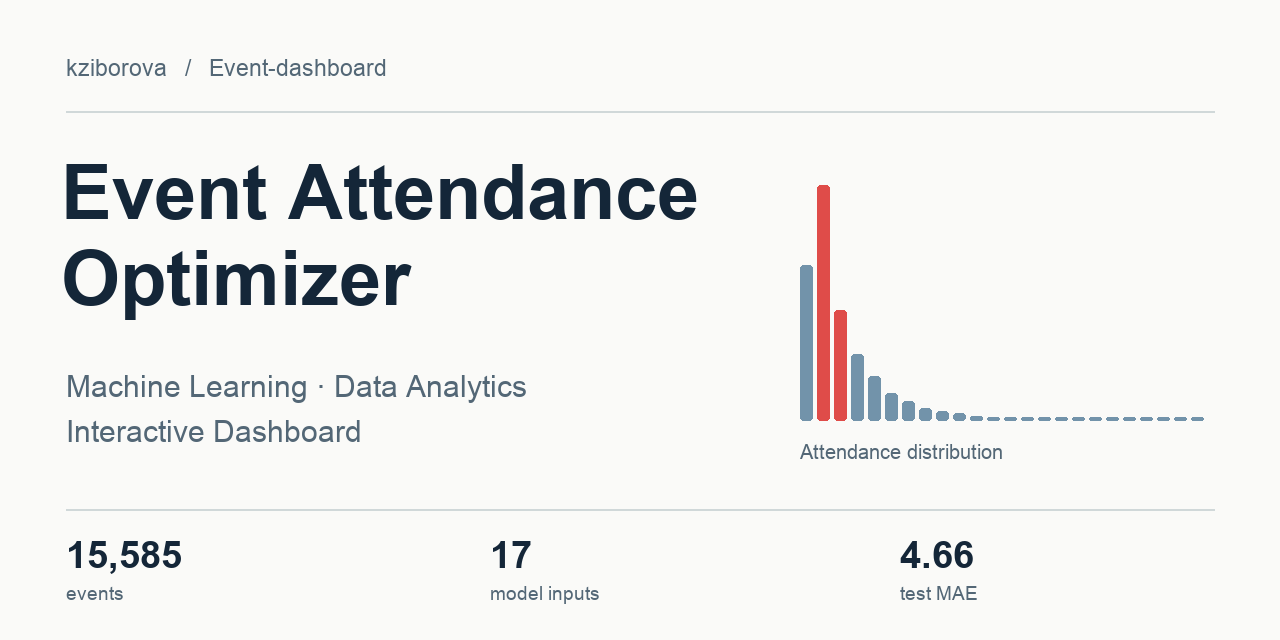
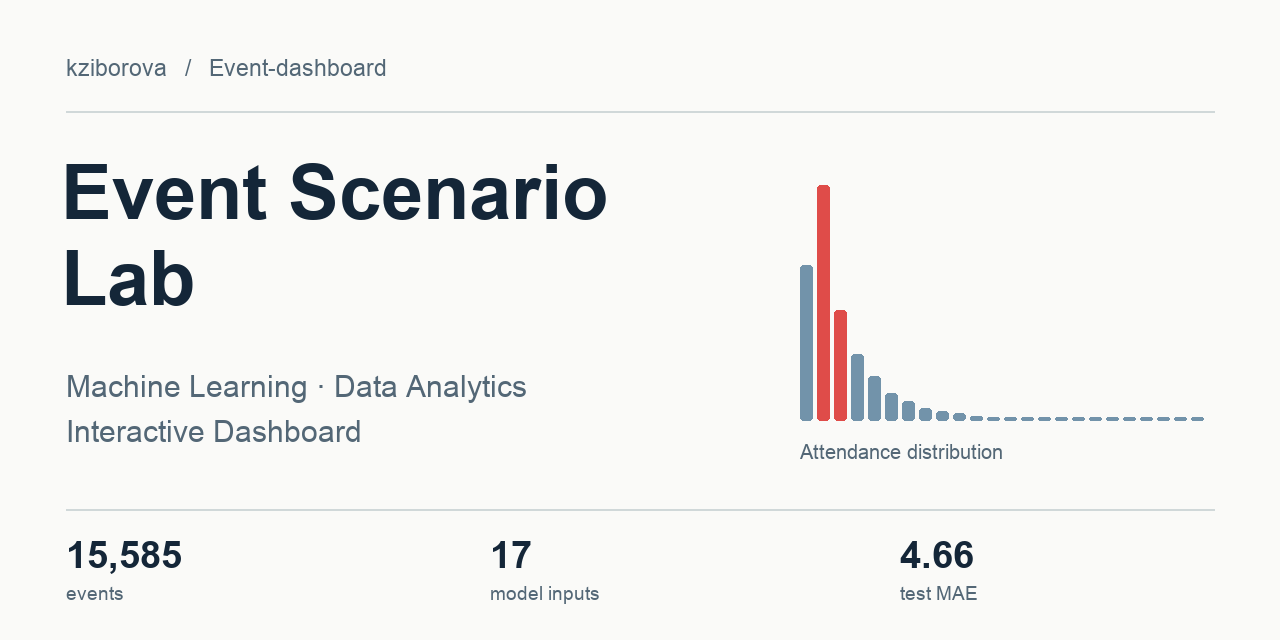
Rename the project to Event Scenario Lab

Changed region(s): [[0.0312, 0.375, 0.3438, 0.5], [0.2188, 0.25, 0.5625, 0.3438]]

diff --git a/streamlit_app.py b/streamlit_app.py
@@ -344,7 +344,7 @@ def _plot_correlation(df: pd.DataFrame) -> None:
 
 
 def page_overview(df: pd.DataFrame) -> None:
-    st.title("Система анализа сценариев посещаемости мероприятий")
+    st.title("Event Scenario Lab")
     st.caption("Дашборд для организаторов: анализ исторических данных + прогноз посещаемости + what-if сценарии.")
 
     c1, c2, c3, c4 = st.columns(4)
@@ -653,7 +653,7 @@ def page_model(df: pd.DataFrame, model: Any | None, feature_cols: list[str] | No
 
 
 def main() -> None:
-    st.set_page_config(page_title="Event Attendance Optimizer", layout="wide")
+    st.set_page_config(page_title="Event Scenario Lab", layout="wide")
 
     try:
         df = load_processed_data()

diff --git a/docs/deployment.md b/docs/deployment.md
@@ -1,8 +1,8 @@
-# Публикация на Streamlit Community Cloud
+# Публикация Event Scenario Lab на Streamlit Community Cloud
 
 1. Убедитесь, что изменения из ветки портфолио вошли в `main`. В её корне должны быть `streamlit_app.py` и обновлённый `requirements.txt`.
 2. Войдите в [Streamlit Community Cloud](https://share.streamlit.io/) через аккаунт с доступом к `kziborova/Event-dashboard`. Выберите **Create app → Yup, I have an app**.
-3. Укажите репозиторий `kziborova/Event-dashboard`, ветку `main`, файл `streamlit_app.py`. В поле **App URL** введите `event-attendance-optimizer`, если имя доступно.
+3. Укажите репозиторий `kziborova/Event-dashboard`, ветку `main`, файл `streamlit_app.py`. В поле **App URL** введите `event-scenario-lab`, если имя доступно.
 4. В **Advanced settings** выберите **Python 3.12**, затем **Deploy**. Дашборд читает CSV и PKL из репозитория. Поле Secrets можно оставить пустым.
 5. Откройте выданный сервисом URL в приватном окне. Проверьте «Обзор», «Аналитика», числовой результат в «Прогноз» и диаграмму в «Модель».
 6. Оберните изображение `assets/demo.svg` в обоих README в ссылку на проверенный URL и уберите подпись об ожидании публикации. На GitHub откройте **About → Edit repository metadata**, вставьте адрес в **Website** и сохраните.

diff --git a/README.md b/README.md
@@ -1,5 +1,6 @@
 <p align="right"><b>RU</b> · <a href="README.en.md">EN</a></p>
-<h1 align="center">Event Attendance Optimizer</h1>
+<p align="center"><img src="assets/logo.svg" width="54" alt="Event Scenario Lab"></p>
+<h1 align="center">Event Scenario Lab</h1>
 <p align="center">Machine Learning · Data Analytics · Interactive Dashboard</p>
 <p align="center">Прогноз посещаемости мероприятий и сценарный анализ для организаторов.</p>
 <p align="center"><img src="assets/stack.svg" alt="Python · Scikit-learn · Streamlit · Pandas · Plotly"></p>

diff --git a/README.en.md b/README.en.md
@@ -1,5 +1,6 @@
 <p align="right"><a href="README.md">RU</a> · <b>EN</b></p>
-<h1 align="center">Event Attendance Optimizer</h1>
+<p align="center"><img src="assets/logo.svg" width="54" alt="Event Scenario Lab"></p>
+<h1 align="center">Event Scenario Lab</h1>
 <p align="center">Machine Learning · Data Analytics · Interactive Dashboard</p>
 <p align="center">Attendance forecasts and what-if analysis for event organizers.</p>
 <p align="center"><img src="assets/stack.svg" alt="Python · Scikit-learn · Streamlit · Pandas · Plotly"></p>
